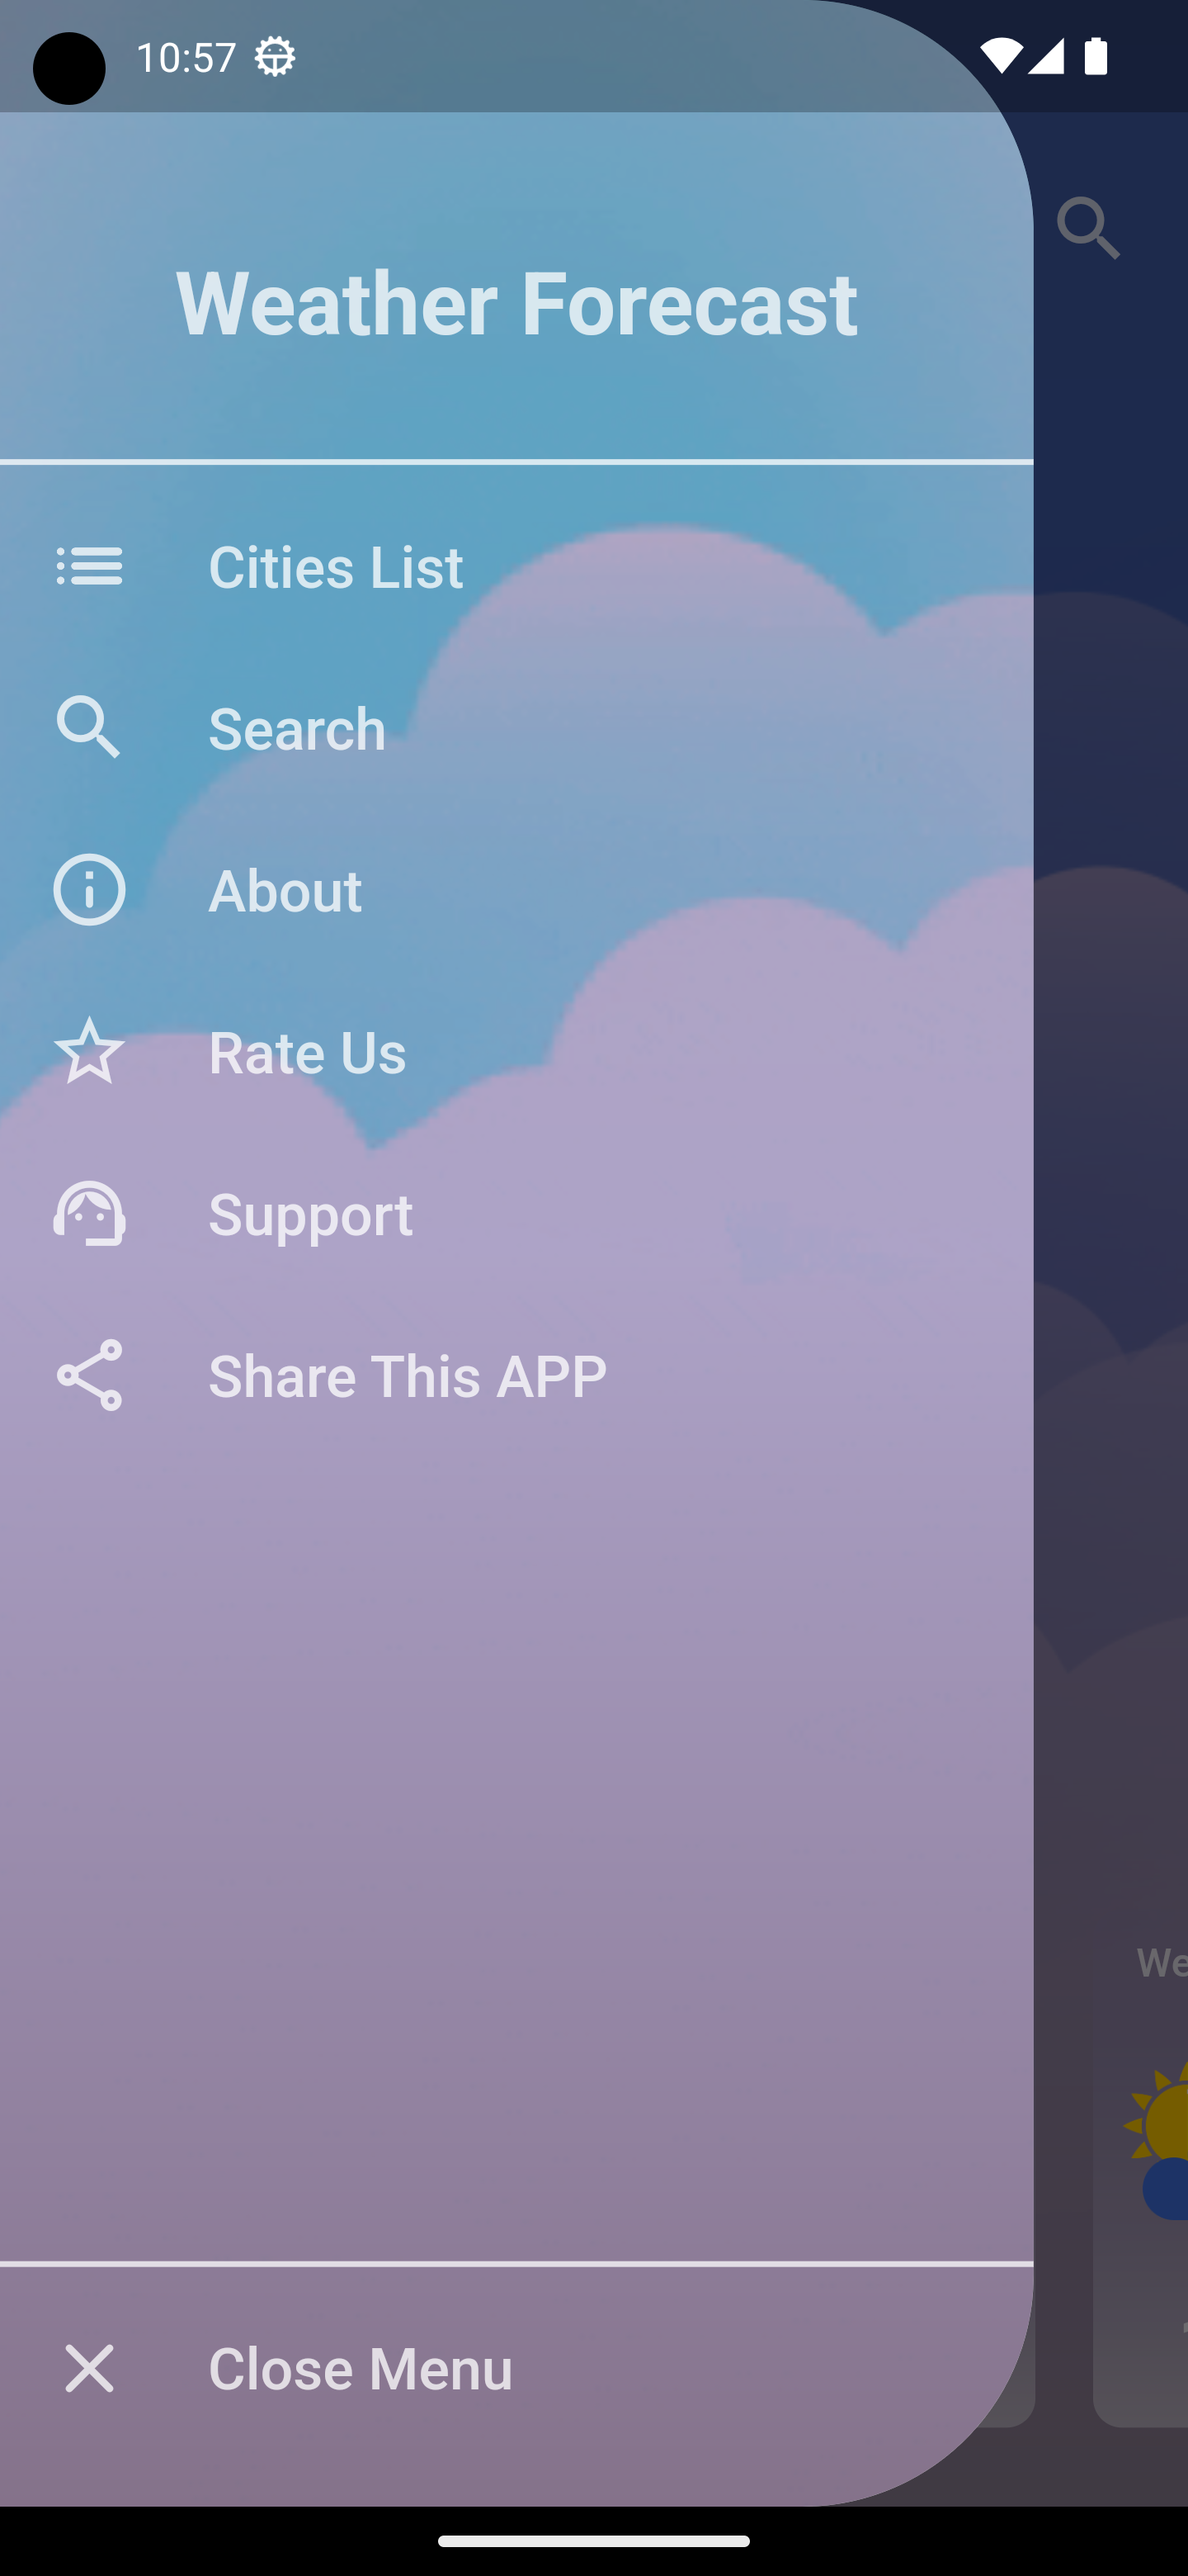
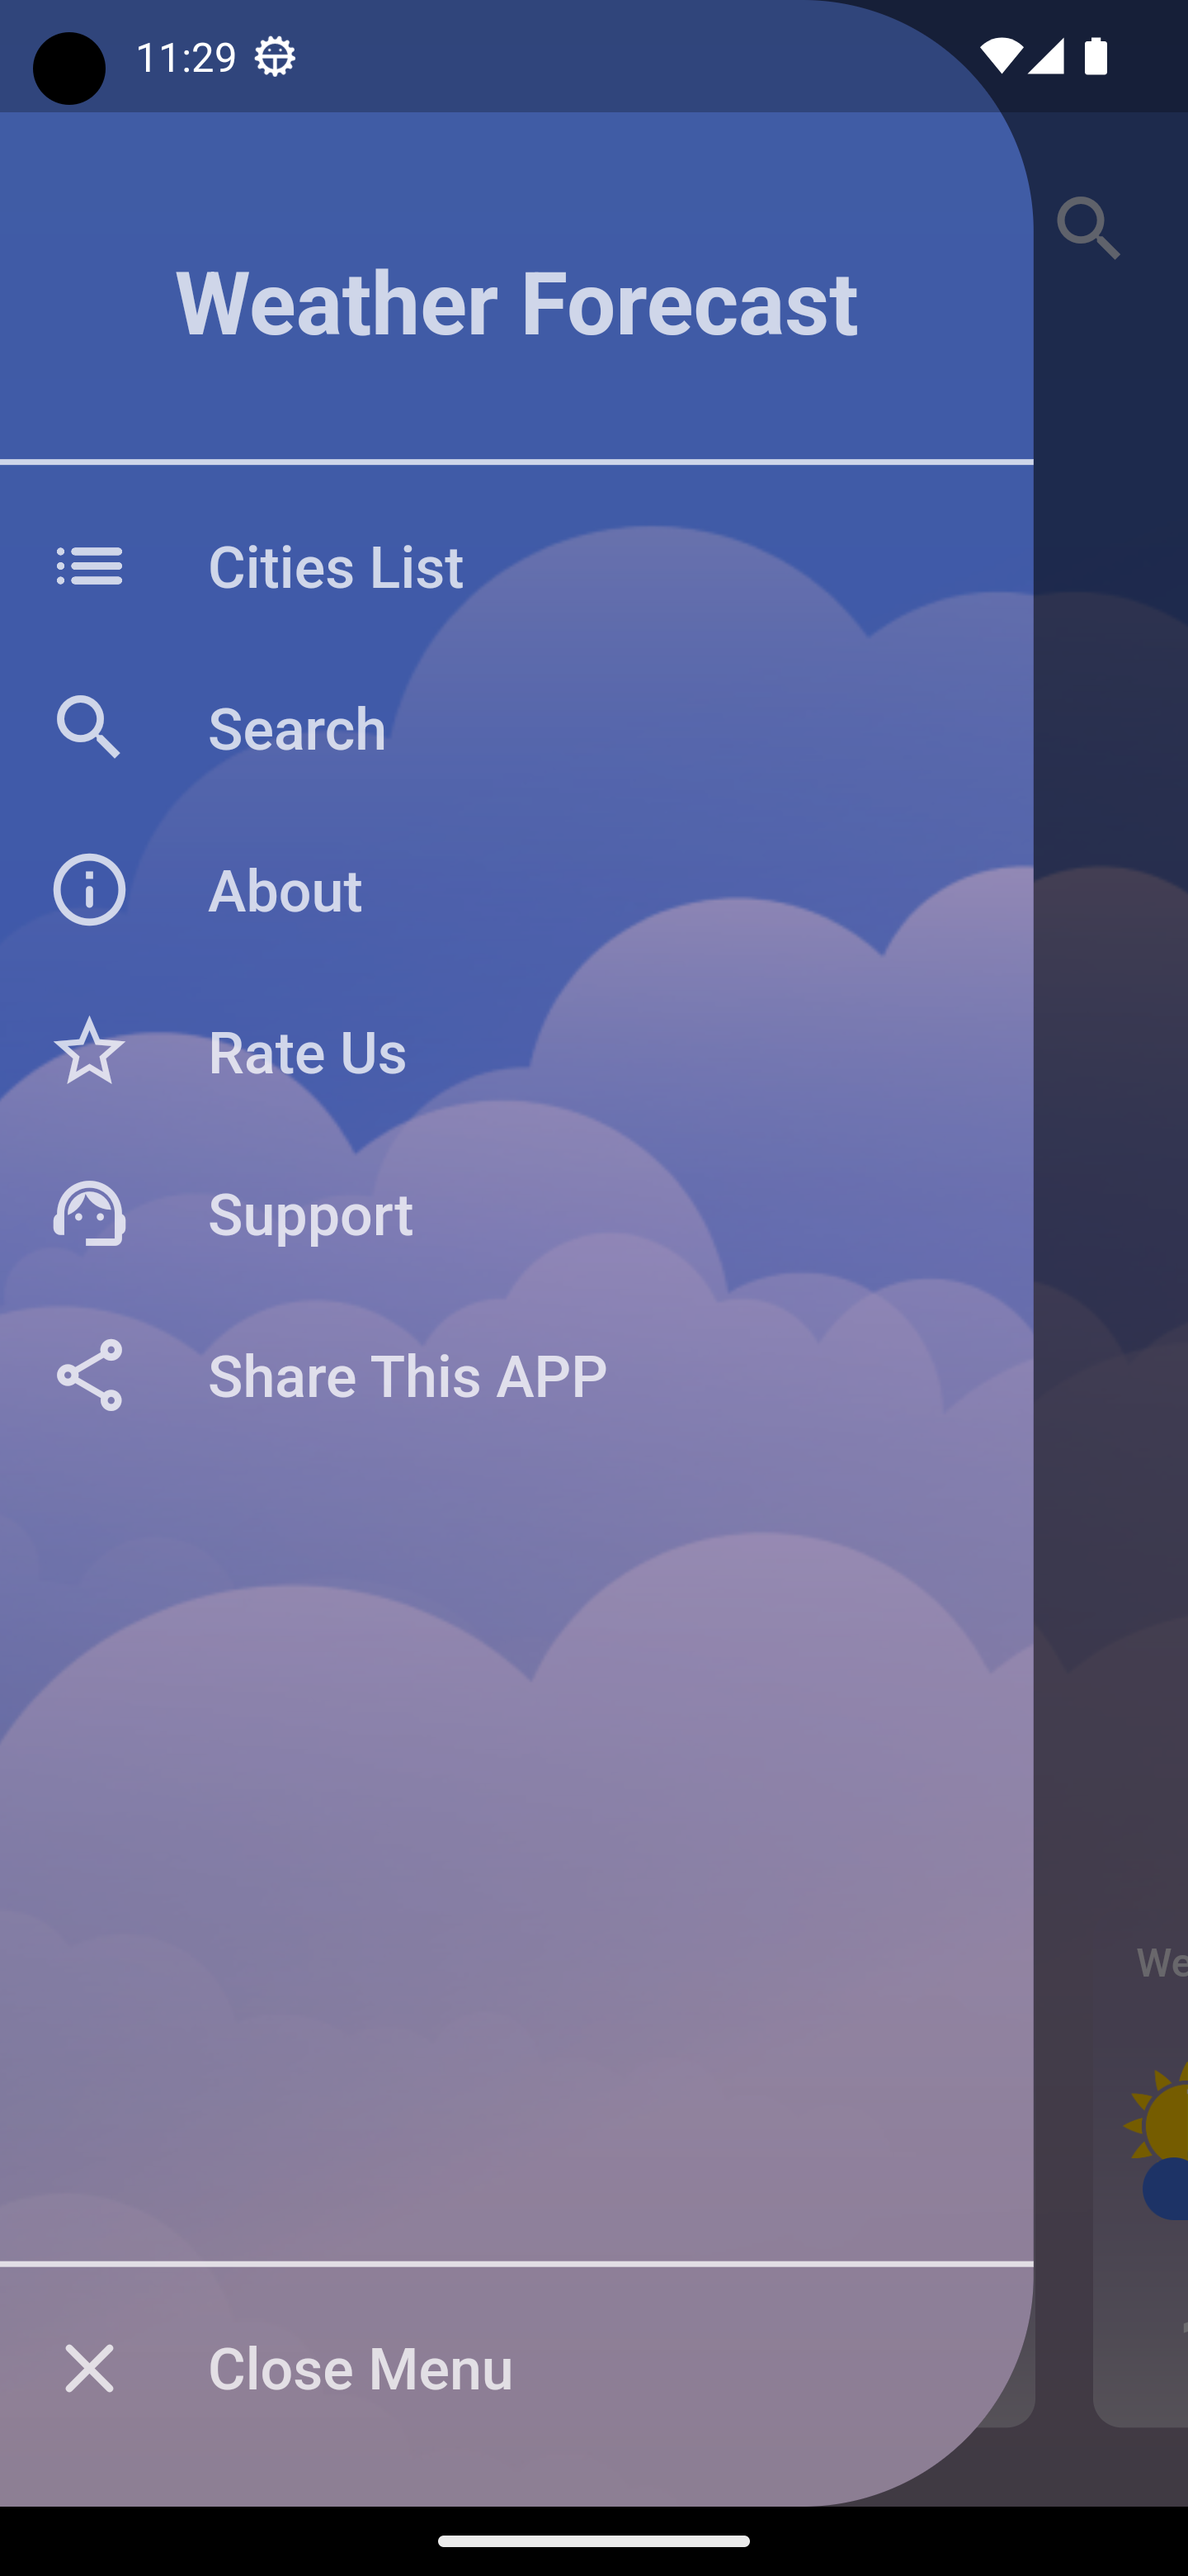
commit

diff --git a/lib/core/widgets/drawer/drawer_background_widget.dart b/lib/core/widgets/drawer/drawer_background_widget.dart
@@ -5,26 +5,18 @@ import 'package:weatherforecast/core/widgets/drawer/drawer_body_widget.dart';
 class DrawerBackGroundWidget {
   static Container drawerBackground(BuildContext context) {
     return Container(
-      decoration: const BoxDecoration(
+      decoration: BoxDecoration(
+        gradient: ColorConst.background(),
         borderRadius: BorderRadius.only(
           topRight: Radius.circular(80),
           bottomRight: Radius.circular(80),
         ),
         image: DecorationImage(
-          image: AssetImage("assets/giphy.gif"),
+          image: AssetImage("assets/background.png"),
           fit: BoxFit.cover,
         ),
       ),
-      child: Container(
-        decoration: BoxDecoration(
-          gradient: ColorConst.drawerBackground(),
-          borderRadius: const BorderRadius.only(
-            topRight: Radius.circular(80),
-            bottomRight: Radius.circular(80),
-          ),
-        ),
-        child: DrawerBodyWidget.body(context),
-      ),
+      child: DrawerBodyWidget.body(context),
     );
   }
 }
